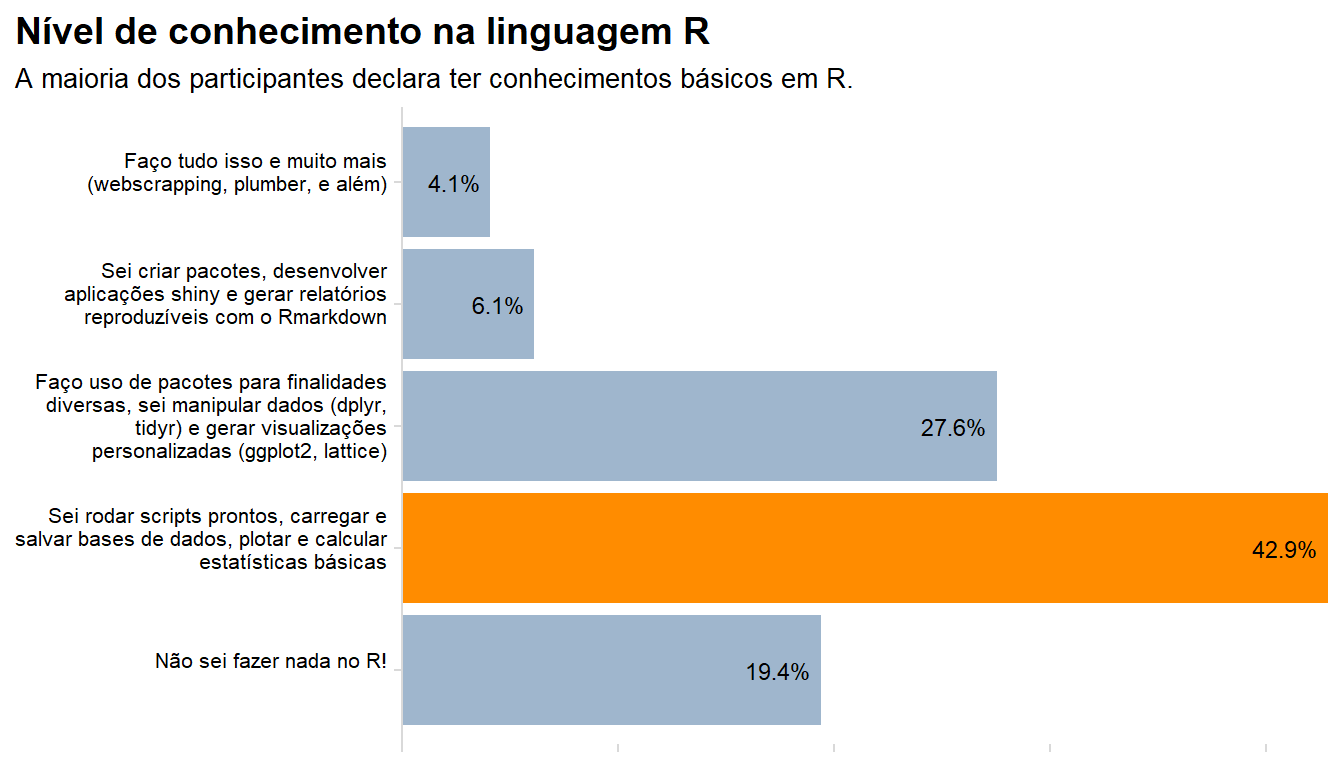
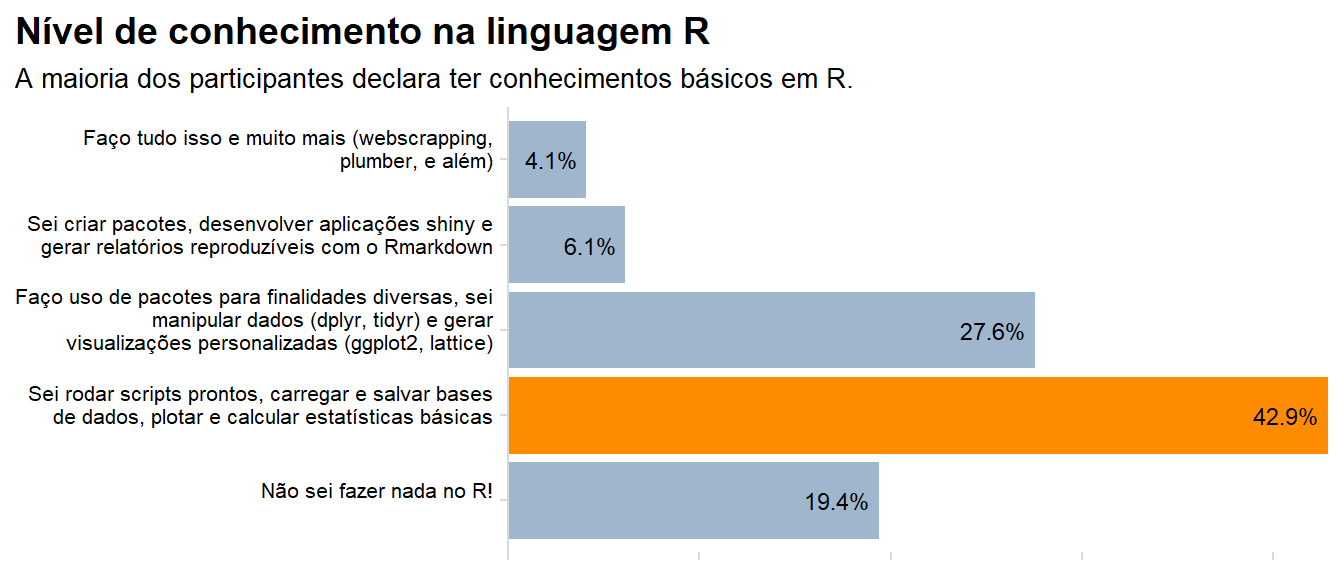
update

Changed region(s): [[0.0, 0.0, 1.0, 0.9688], [0.9375, 0.6875, 1.0, 0.75]]

diff --git a/content/post/perfil-do-engenheiro-florestal-usuario-do-r/index.html b/content/post/perfil-do-engenheiro-florestal-usuario-do-r/index.html
@@ -22,8 +22,11 @@ projects: []
 <script src="{{< blogdown/postref >}}index_files/header-attrs/header-attrs.js"></script>
 
 
-<p>Havia quase dois anos que eu não postava por aqui. Foi muito interessante observar que, apesar do tempo sem postar, o fluxo de novos visitantes no blog e de contatos para sugestões ou esclarescimento de dúvidas foi contínuo, demonstrando que o interesse pela aplicação da linguagem R na área florestal é crescente. Por conta disso, resolvi criar um grupo no WhatsApp para reunir Engenheiros Florestais utilizadores do R, para compartilhamento de experiências, materiais, cursos, aplicações, pacotes, dúvidas, etc. O grupo lotou em poucos dias.</p>
-<p>Foi então que tive a ideia de elaborar um breve questionário para gerar uma interação e averiguar como e por quem a linguagem R tem sido utilizada na área florestal. Na tentativa de incentivar o preenchimento, me comprometi a compartilhar os resultados e o código utilizado em toda a análise. A análise a seguir pode servir de auxílio aos colegas que estão buscando se aperfeiçõar na prática de programar em R, uma vez que busco utilizar diversos procedimentos de tratamento e manipulação de dados, bem como aplicar alguns conceitos básicos de data storytelling utilizando o pacote <code>ggplot2</code>. A fonte de dados é uma planilha do Google Sheets, cópia da versão original vinculada ao formulário, contendo todas as respostas para as 6 perguntas obrigatórias (primeira seção). Vamos à análise.</p>
+<p>Havia quase dois anos que eu não postava por aqui. Foi muito interessante observar que, apesar do tempo sem postar, o fluxo de novos visitantes no blog foi contínuo, demonstrando que o interesse pela aplicação da linguagem R na área florestal é crescente. Por conta disso, resolvi criar um grupo no WhatsApp para reunir Engenheiros Florestais utilizadores do R, para compartilhamento de experiências, materiais, cursos, aplicações, pacotes, dúvidas, etc. Para minha surpresa, o grupo lotou em poucos dias.</p>
+<p>Foi então que tive a ideia de elaborar um breve questionário para gerar uma interação e averiguar como e por quem a linguagem R tem sido utilizada na área florestal. Na tentativa de incentivar o preenchimento, me comprometi a compartilhar os resultados e o código utilizado em toda a análise.</p>
+<p>A análise a seguir pode servir de auxílio aos colegas que estão buscando se aperfeiçõar na prática de programar em R, uma vez que busco utilizar diversos procedimentos de tratamento e manipulação de dados, bem como aplicar alguns conceitos básicos de data storytelling utilizando o pacote <code>ggplot2</code>. A fonte de dados é uma planilha do Google Sheets, cópia da versão original vinculada ao formulário, contendo todas as respostas para as 6 perguntas obrigatórias (primeira seção). Vamos à análise.</p>
+<div id="análise-das-respostas" class="section level3">
+<h3>Análise das respostas</h3>
 <p>Participaram do levantamento engenheiros florestais das cinco regiões do Brasil e também do exterior. Ao todo houveram 98 respostas ao questionário, sendo a maioria advindas de colegas que atuam nas regiões Sul, Nordeste e Sudeste.</p>
 <pre class="r"><code>#######################
 # Aquisição dos dados #
@@ -72,7 +75,7 @@ respostas %&gt;%
   st_as_sf() %&gt;%
   ggplot() +
   geom_sf(aes(fill = n), color = &#39;white&#39;, size=.5, show.legend = F) +
-  geom_sf_text(aes(label = n), color=&#39;white&#39;)+
+  geom_sf_text(aes(label = n), color=&#39;black&#39;)+
   labs(title = &#39;Quantidade de respostas por região de atuação&#39;,
        subtitle = &#39;Os respondentes se concentraram nas regiões sul, sudeste e nordeste.\nTivemos poucos respondentes da região norte do país.&#39;,
        caption = paste0(&#39;Participantes que atuam no exterior: &#39;,
@@ -83,7 +86,7 @@ respostas %&gt;%
   theme_map(font_size = 12)+
   theme(plot.title.position = &#39;plot&#39;)</code></pre>
 <p><img src="{{< blogdown/postref >}}index_files/figure-html/unnamed-chunk-2-1.png" width="768" /></p>
-<p>Cerca de 87% dos participantes do levantamento atuam no setor privado ou no meio acadêmico como graduandos ou pós-graduandos. Ao todo, tivemos a participação de dois professores do Ensino Superior, dois servidores públicos, cinco autônomos e quatro colegas que estão em busca de uma oportunidade de trabalho.</p>
+<p>Cerca de 87% dos participantes do levantamento atuam no setor privado ou no meio acadêmico como graduandos ou pós-graduandos. Ao todo, tivemos a participação de dois professores do Ensino Superior, dois servidores públicos (exceto professores), cinco autônomos e quatro colegas que estão em busca de uma oportunidade de trabalho.</p>
 <pre class="r"><code>##########################
 # Respostas por ocupação #
 ##########################
@@ -105,9 +108,9 @@ respostas %&gt;%
   arrange(-n) %&gt;% 
   ggplot(aes(area = n, fill = n, label = Ocup_label))+
   geom_treemap(show.legend = F, color = &#39;white&#39;)+
-  geom_treemap_text(colour = &quot;white&quot;,
+  geom_treemap_text(colour = &quot;black&quot;,
                     place = &quot;centre&quot;,
-                    size = 12)+
+                    size = 11)+
   scale_fill_gradient(high = &#39;slategrey&#39;, low = &#39;slategray3&#39;)+
   labs(title = &#39;Ocupação dos participantes&#39;,
        subtitle = &#39;A maioria dos respondentes são profissionais que atuam em instituições privadas.\nAcadêmicos de graduação e da pós também tiverem expressiva participação.&#39;)+
@@ -141,7 +144,7 @@ respostas %&gt;%
   arrange(FreqUso) %&gt;% 
   ggplot()+
   geom_bar(aes(x=FreqUso,y=n_rel, fill = fill), stat = &#39;identity&#39;)+
-  geom_text(aes(x=FreqUso, y=n_rel, label = paste0(round(n_rel,1),&#39;%&#39;)), hjust = 1,nudge_y = -.5, color = &#39;black&#39;)+
+  geom_text(aes(x=FreqUso, y=n_rel, label = paste0(round(n_rel,1),&#39;%&#39;)), hjust = 1,nudge_y = -.5, color = &#39;black&#39;, size = 3)+
   scale_x_discrete(limits = levels(&#39;FreqUso&#39;))+
   scale_y_continuous(expand = c(0,0))+
   scale_fill_identity()+
@@ -162,7 +165,7 @@ respostas %&gt;%
 respostas %&gt;% 
   group_by(NivelCon) %&gt;% 
   summarise(n = n()) %&gt;% 
-  mutate(labels = gsub(&#39;(.{1,40})(\\s|$)&#39;, &#39;\\1\n&#39;, NivelCon)) %&gt;% 
+  mutate(labels = gsub(&#39;(.{1,50})(\\s|$)&#39;, &#39;\\1\n&#39;, NivelCon)) %&gt;% 
   mutate(n_rel = n/sum(n)*100,
          labels = factor(labels,
                            levels = unique(labels)[c(3,5,2,4,1)],
@@ -216,7 +219,8 @@ respostas %&gt;%
                           TRUE~paleta6[1])) %&gt;% 
   ggplot(aes(area = n, fill = n, label = labels))+
   geom_bar(aes(x=labels,y=n_rel, fill = fill), stat = &#39;identity&#39;)+
-  geom_text(aes(x=labels, y=n_rel, label = paste0(round(n_rel,1),&#39;%&#39;)), hjust = 1,nudge_y = -.5, color = &#39;black&#39;)+
+  geom_text(aes(x=labels, y=n_rel, label = paste0(round(n_rel,1),&#39;%&#39;)), hjust = 1,nudge_y = -.5, color = &#39;black&#39;,
+            size = 3)+
   scale_x_discrete(limits = rev(levels(&#39;labels&#39;)))+
   scale_y_continuous(expand = c(0,0))+
   scale_fill_identity()+
@@ -234,7 +238,7 @@ respostas %&gt;%
 <p><img src="{{< blogdown/postref >}}index_files/figure-html/unnamed-chunk-6-1.png" width="768" /></p>
 <p>A cada dez participantes do levantamento, quatro afirmaram ter dificuldades em aprender a programar. Isso é compreensível já que na formação do engenheiro florestal não há um enfoque para o desenvolvimento de habilidades de programação, visto que nossa área de atuação é bastante ampla e para muitos a rotina de campo é mais frequente que a de escritório.<br />
 Há uma tendência cada vez maior da utilização do R em algumas disciplinas que trabalham com dados, ou mesmo a inclusão de disciplinas específicas para desenvolvimento dessas habilidades nos cursos de graduação e pós-graduação.<br />
-Independente de disciplinas específicas na grade currícular, o aprendizado de uma linguagem de programação é similar ao aprendizado de um idioma, e se dá pelo estudo, prática, e constância de utilização.</p>
+Independente da existência de disciplinas específicas na grade currícular, o aprendizado de uma linguagem de programação é similar ao aprendizado de um idioma, e se dá pelo estudo, prática, e constância de utilização. O autodidatismo é outra característica importante para quem busca se desenvolver nesta área.</p>
 <pre class="r"><code>###########################
 # Principais dificuldades #
 ###########################
@@ -267,7 +271,7 @@ tibble(Dificuldade = c(&#39;Não tenho tempo/empenho&#39;,
                           TRUE~paleta6[1])) %&gt;% 
   ggplot(aes(area = n, fill = n, label = labels))+
   geom_bar(aes(x=labels,y=n_rel, fill = fill), stat = &#39;identity&#39;)+
-  geom_text(aes(x=labels, y=n_rel, label = paste0(round(n_rel,1),&#39;%&#39;)), hjust = 1,nudge_y = -.5, color = &#39;black&#39;)+
+  geom_text(aes(x=labels, y=n_rel, label = paste0(round(n_rel,1),&#39;%&#39;)), hjust = 1,nudge_y = -.5, color = &#39;black&#39;, size = 3)+
   annotate(&#39;text&#39;,x=1, y=7,hjust=0,label = &#39;Outras dificuldades apontadas se referem à aplicação da linguagem no ambiente corporativo\nquando a ferramenta dominante é outra, deficiência em conhecimentos estatísticos e\nlíngua inglesa, falta de prática e alterações frequentes de versões de pacotes.&#39;,
            size=3)+
   scale_x_discrete(limits = rev(levels(&#39;labels&#39;)))+
@@ -283,5 +287,6 @@ tibble(Dificuldade = c(&#39;Não tenho tempo/empenho&#39;,
         panel.grid.major = element_blank(),
         axis.text.y = element_text(size = 9))</code></pre>
 <p><img src="{{< blogdown/postref >}}index_files/figure-html/unnamed-chunk-7-1.png" width="768" /></p>
-<p>A comunidade R é bastante ampla e existe muito material disponível na internet para apoiar o aprendizado. Aqui no blog procuro compartilhar um pouco do que desenvolvo e que se aplica à área florestal, mas a maior parte do que aprendi veio de exemplos compartilhados na internet, com aplicações que na maioria das vezes não eram florestais. Foi o estudo, a prática e a constância de utilização que me permitiram direcionar o que aprendi (e continuo aprendendo) de maneira dispersa, ao desenvolvimento de soluções para os problemas que preciso atacar no meu trabalho diário.</p>
-<p>Bom, cumpro aqui meu combinado de disponibilizar os resultados e as análises do formulário. Deixo meu obrigado à todos os colegas que responderam o questionário. Até a próxima!</p>
+<p>A comunidade R é bastante ampla e existe muito material disponível na internet para apoiar o aprendizado. Aqui no blog procuro compartilhar um pouco do que desenvolvo e que se aplica à área florestal. A maior parte do que aprendi a fazer no R veio de exemplos compartilhados na internet que na maioria das vezes não eram florestais. Foi o estudo, a prática e a constância de utilização que me permitiram direcionar o que aprendi (e continuo aprendendo) de maneira dispersa, ao desenvolvimento de soluções para os problemas que preciso atacar no meu trabalho diário - florestal.</p>
+<p>Bom, cumpro aqui meu combinado de disponibilizar os resultados e códigos de análise do formulário. Deixo meu obrigado à todos os colegas que responderam o questionário. Até a próxima!</p>
+</div>
